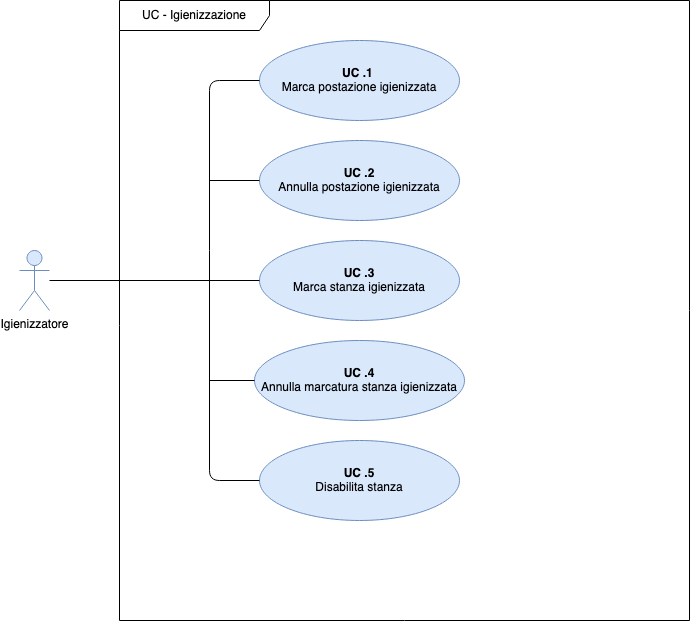
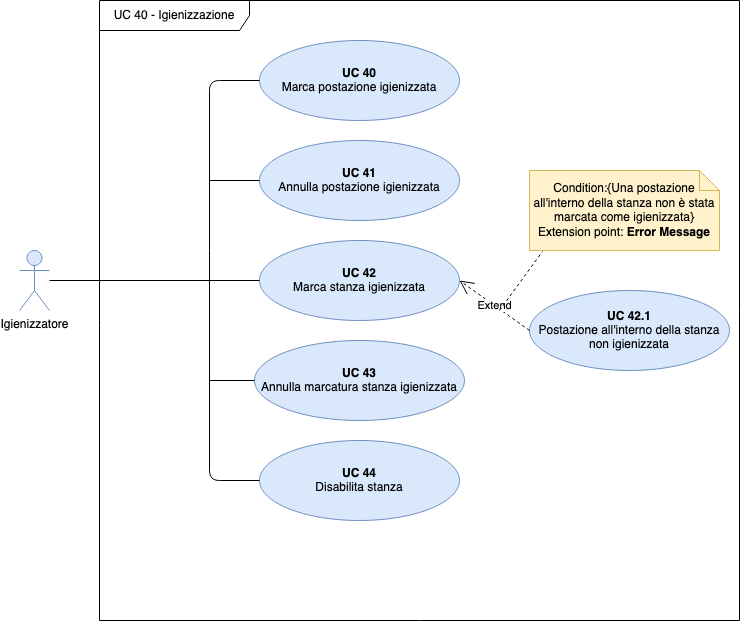
Modificati UML UC
modificati gli UML degli UC con l'aggiunta delle estensioni e conditions

diff --git a/DocumentiEsterni/AnalisiDeiRequisiti/src/CasiDUso/src/UC40.tex b/DocumentiEsterni/AnalisiDeiRequisiti/src/CasiDUso/src/UC40.tex
@@ -20,7 +20,7 @@ Il presente diagramma vuole riassumere la possibilità di igienizzazione delle p
 	\end{itemize}
 \end{itemize}
 
-\subsubsection{UC 41 - Marca postazione igienizzata}
+\subsubsection{UC 40 - Marca postazione igienizzata}
 
 \begin{itemize}
 \item \textbf{Attori primari:} igienizzatore;
@@ -35,7 +35,7 @@ Il presente diagramma vuole riassumere la possibilità di igienizzazione delle p
 	\end{itemize}
 \end{itemize}
 
-\subsubsection{UC 42 - Annulla postazione igienizzata}
+\subsubsection{UC 41 - Annulla postazione igienizzata}
 
 \begin{itemize}
 \item \textbf{Attori primari:} igienizzatore;
@@ -50,7 +50,7 @@ Il presente diagramma vuole riassumere la possibilità di igienizzazione delle p
 		\end{itemize}
 \end{itemize}
 
-\subsubsection{UC 43 - Marca stanza igienizzata}
+\subsubsection{UC 42 - Marca stanza igienizzata}
 
 \begin{itemize}
 \item \textbf{Attori primari:} igienizzatore;
@@ -68,7 +68,7 @@ Il presente diagramma vuole riassumere la possibilità di igienizzazione delle p
 		\end{itemize}
 \end{itemize}
 
-\subsubsection{UC 43.1 - Errore marcatura stanza: una postazione all'interno della stanza selezionata non è igienizzata}
+\subsubsection{UC 42.1 - Errore marcatura stanza: una postazione all'interno della stanza selezionata non è igienizzata}
 \begin{itemize}
 \item \textbf{Attori primari:} igienizzatore;
 \item \textbf{Precondizione:} l'utente sta cercando di marcare una stanza come completamente igienizata, ma una postazione nella stanza selezionata risulta essere non igienizzata;
@@ -76,7 +76,7 @@ Il presente diagramma vuole riassumere la possibilità di igienizzazione delle p
 \item \textbf{Scenario principale:} l'utente visualizza un messaggio di errore in cui viene informato che la stanza non può essere marcata come igienizzata in quanto al suo interno è presente almeno una postazione non igienizzata.
 \end{itemize}
 
-\subsubsection{UC .4 - Marca stanza non igienizzata}
+\subsubsection{UC 43 - Marca stanza non igienizzata}
 
 \begin{itemize}
 \item \textbf{Attori primari:} igienizzatore;
@@ -91,7 +91,7 @@ Il presente diagramma vuole riassumere la possibilità di igienizzazione delle p
 	\end{itemize}
 \end{itemize}
 
-\subsubsection{UC .5 - Disabilita stanza}
+\subsubsection{UC 44 - Disabilita stanza}
 
 \begin{itemize}
 \item \textbf{Attori primari:} igienizzatore;

diff --git a/DocumentiEsterni/AnalisiDeiRequisiti/src/CasiDUso/src/UC5.tex b/DocumentiEsterni/AnalisiDeiRequisiti/src/CasiDUso/src/UC5.tex
@@ -39,7 +39,7 @@ Il presente diagramma vuole riassumere la possibilità di gestione delle prenota
 	\end{itemize}
 \end{itemize}
 
-\subsubsection{UC 1.1 - Errore prenotazione: prenotazione per determinata data ed ora già esistente}
+\subsubsection{UC 1.1 - Errore prenotazione: prenotazione per determinata fascia oraria già esistente}
 \begin{itemize}
 \item \textbf{Attori primari:} utente autenticato, amministratore;
 \item \textbf{Precondizione:} l'utente sta cercando di prenotare una postazione in una data ed orario in cui la postazione risulta già prenotata da un altro utente;
